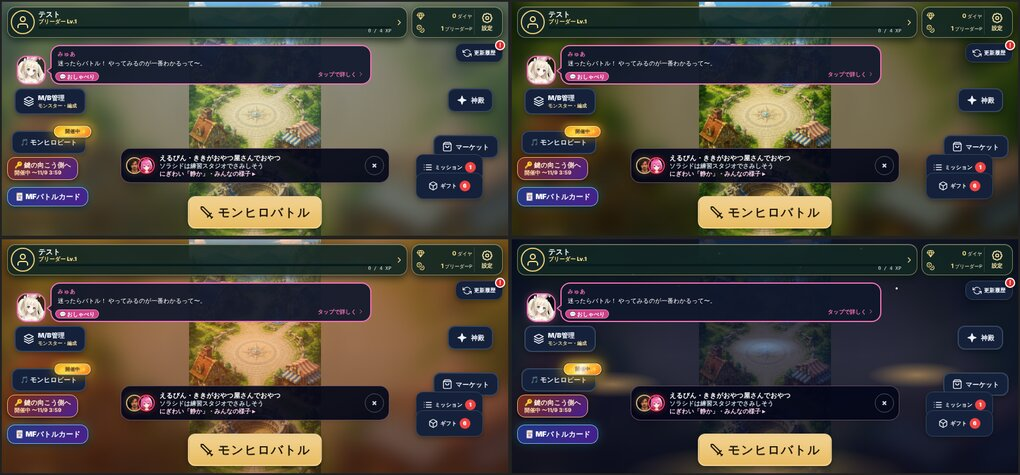
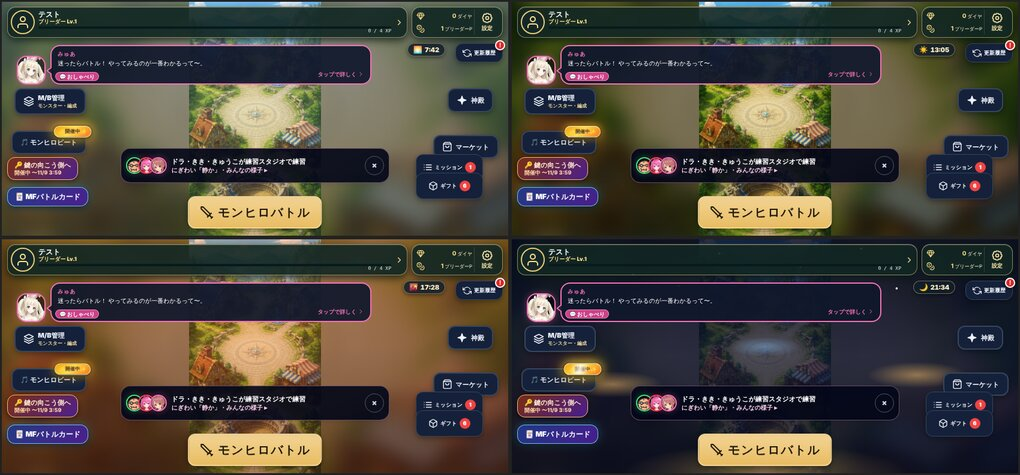
時間帯で変わる雰囲気: いまの時刻の札の案を足す
Claude-Session: https://claude.ai/code/session_0113GBaEm4mhNfdXMrpFPxWg

diff --git a/docs/progress/time-of-day/draft.css b/docs/progress/time-of-day/draft.css
@@ -12,3 +12,8 @@ html[data-mh-tod="night"] .mh-home-background::before{opacity:1;
   radial-gradient(40% 18% at 50% 100%,rgba(255,190,100,.38),transparent 70%),
   radial-gradient(14% 8% at 20% 62%,rgba(255,196,110,.50),transparent 70%),radial-gradient(14% 8% at 80% 58%,rgba(255,196,110,.50),transparent 70%),
   radial-gradient(10% 6% at 50% 46%,rgba(140,200,255,.42),transparent 70%)}
+/* 試作: いまの時刻の札 */
+.mh-tod-clock{position:absolute;z-index:5;right:9px;top:calc(107px + env(safe-area-inset-top));display:flex;align-items:center;gap:4px;padding:3px 9px;border:1px solid #eed99566;border-radius:999px;background:#0f1d2ad9;color:#f9eac2;font:900 11px/1.2 system-ui,sans-serif;font-variant-numeric:tabular-nums;box-shadow:0 2px 6px #0007;pointer-events:none}
+.mh-tod-clock i{font-style:normal;font-size:12px}
+@media(orientation:landscape) and (max-height:600px){.mh-tod-clock{top:calc(69px + env(safe-area-inset-top));right:calc(9px + var(--mh-tod-upd,96px))}}
+[data-mh-view-rotation="true"] .mh-tod-clock{top:calc(69px + env(safe-area-inset-top));right:calc(9px + 96px)}

diff --git a/docs/progress/time-of-day/PLAN.md b/docs/progress/time-of-day/PLAN.md
@@ -47,3 +47,17 @@
 1. 区切りの時刻と4つの色はこれでよいか(夜の暗さ)
 2. 広げる範囲: HOME(+タイトル)だけか、絵のない画面にも案Bで薄く寄せるか
 3. 設定の入/切を付けるか(既定は入)
+
+## 5. いまの時刻の表示(社長「ゲーム内にリアルタイム時間の表示も欲しいね。全ページはじゃまになるかもだから置けそうなとこに」)
+
+止め絵は上の3枚に入れた(HOME の右上、「更新履歴」の下。横・🔄横では「更新履歴」の左)。
+
+- 形: 小さな札に「時間帯の印＋時:分」。朝 🌅・昼 ☀・夕 🌇・夜 🌙(例「🌙 21:34」)。押せない(下の操作を邪魔しない)
+- 時刻はいつも日本時間(端末の時刻の設定がずれていても、ゲームの1日の区切りと同じ扱いで日本時間に直して出す)。1分ごとに書き換える
+- 置く画面: HOME(村の案内のときも HOME の上なので同じ札)/助手たちの今(家)/プロフィール
+- 置かない画面: モンヒロビートの演奏中・マルチ/バトル中/カード対戦中/お話の最中/結果画面(遊びのじゃまになるため)
+- 縦・横・🔄横の3つで、ほかの表示に重ならないことを確かめた(HOME)
+- 設定: 「時間帯で雰囲気を変える(入/切)」と並べて「いまの時刻を出す(入/切)」。保存は同じ新しいキー mh_time_of_day_v1 に { mood, clock } の形で足す。既定はどちらも入
+
+決めてほしいこと(追加)
+4. 時刻の札の場所(HOME 右上)と、置く画面の範囲
